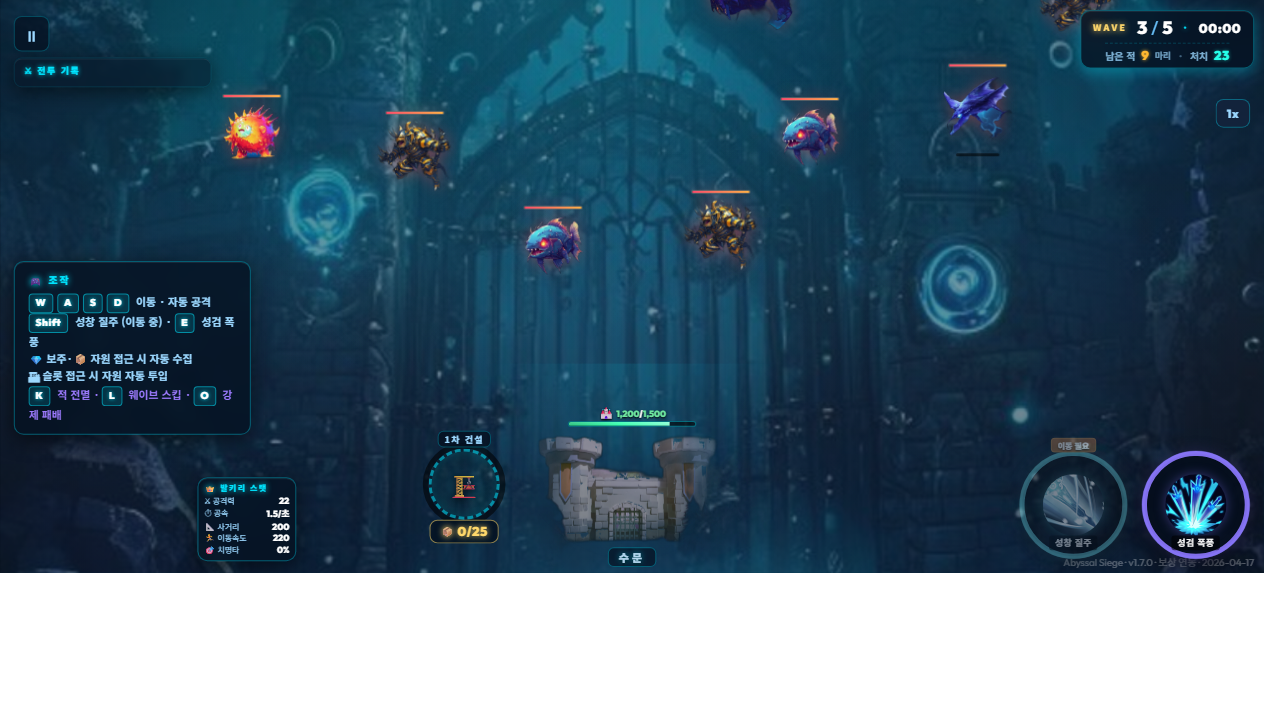
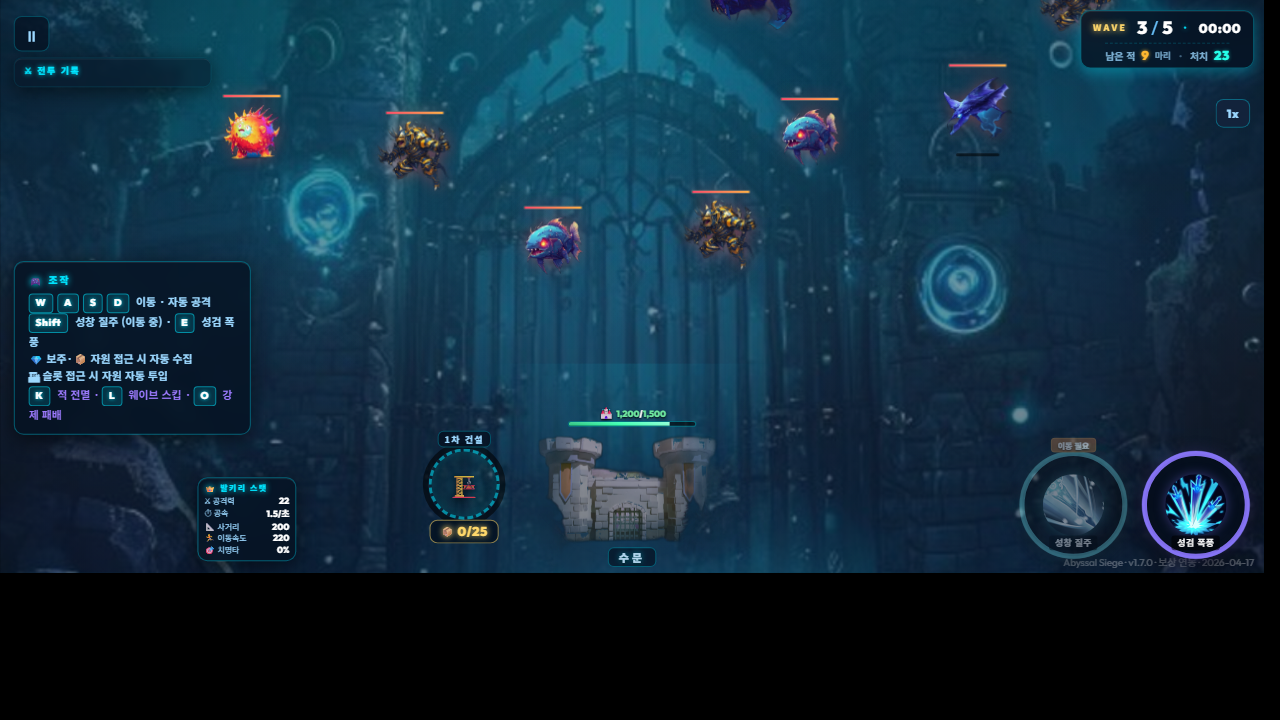
auto: update [18:38]

Changed region(s): [[0.0, 0.0, 1.0, 1.0]]

diff --git a/index.html b/index.html
@@ -7534,6 +7534,9 @@ if(AUTOPLAY){
     const _ssCss=document.createElement('style');
     _ssCss.textContent='*{animation-duration:0.001ms!important;animation-delay:0ms!important;transition-duration:0.001ms!important;transition-delay:0ms!important}';
     document.head.appendChild(_ssCss);
+    // body/html 배경을 검정으로 고정 (흰색 영역 방지)
+    document.documentElement.style.background='#000';
+    document.body.style.background='#000';
     // 2) 결과창을 body 최상위로 이동 (stage 스케일 영향 차단)
     const scr=document.getElementById('resultScreen');
     document.body.appendChild(scr);
@@ -7541,6 +7544,7 @@ if(AUTOPLAY){
     scr.style.top='0'; scr.style.left='0';
     scr.style.width='100vw'; scr.style.height='100vh';
     scr.style.zIndex='9999';
+    scr.style.background='#0a0a1a';
     // 3) state 직접 설정
     state.gateHp=1350; state.gateHpMax=1500;
     state.wave=7; state.waveMax=7;
@@ -7562,6 +7566,8 @@ if(AUTOPLAY){
       const _ssCss5=document.createElement('style');
       _ssCss5.textContent='*{animation-duration:0.001ms!important;animation-delay:0ms!important;transition-duration:0.001ms!important;transition-delay:0ms!important}';
       document.head.appendChild(_ssCss5);
+      document.documentElement.style.background='#000';
+      document.body.style.background='#000';
       // 최소 state 초기화
       state.running=true; state.phase='playing'; state.wave=7; state.waveMax=7;
       state.gateHp=900; state.gateHpMax=1500; state.gauge=45; state.gaugeMax=100;
@@ -7605,6 +7611,8 @@ if(AUTOPLAY){
       const _ssCss3=document.createElement('style');
       _ssCss3.textContent='*{animation-duration:0.001ms!important;animation-delay:0ms!important;transition-duration:0.001ms!important;transition-delay:0ms!important}';
       document.head.appendChild(_ssCss3);
+      document.documentElement.style.background='#000';
+      document.body.style.background='#000';
       // 최소 state 초기화 (audio 없이)
       state.running=true; state.phase='playing'; state.wave=3; state.waveMax=7;
       state.gateHp=1200; state.gateHpMax=1500; state.gauge=72; state.gaugeMax=100;
@@ -7642,6 +7650,8 @@ if(AUTOPLAY){
       const _ssCss4=document.createElement('style');
       _ssCss4.textContent='*{animation-duration:0.001ms!important;animation-delay:0ms!important;transition-duration:0.001ms!important;transition-delay:0ms!important}';
       document.head.appendChild(_ssCss4);
+      document.documentElement.style.background='#000';
+      document.body.style.background='#000';
       state.running=true; state.phase='playing'; state.wave=2; state.waveMax=7;
       state.gateHp=1400; state.gateHpMax=1500; state.gauge=85; state.gaugeMax=100;
       state.stats={kill:12,orb:3,crit:2,combo:0,maxCombo:9,comboTimer:0};
